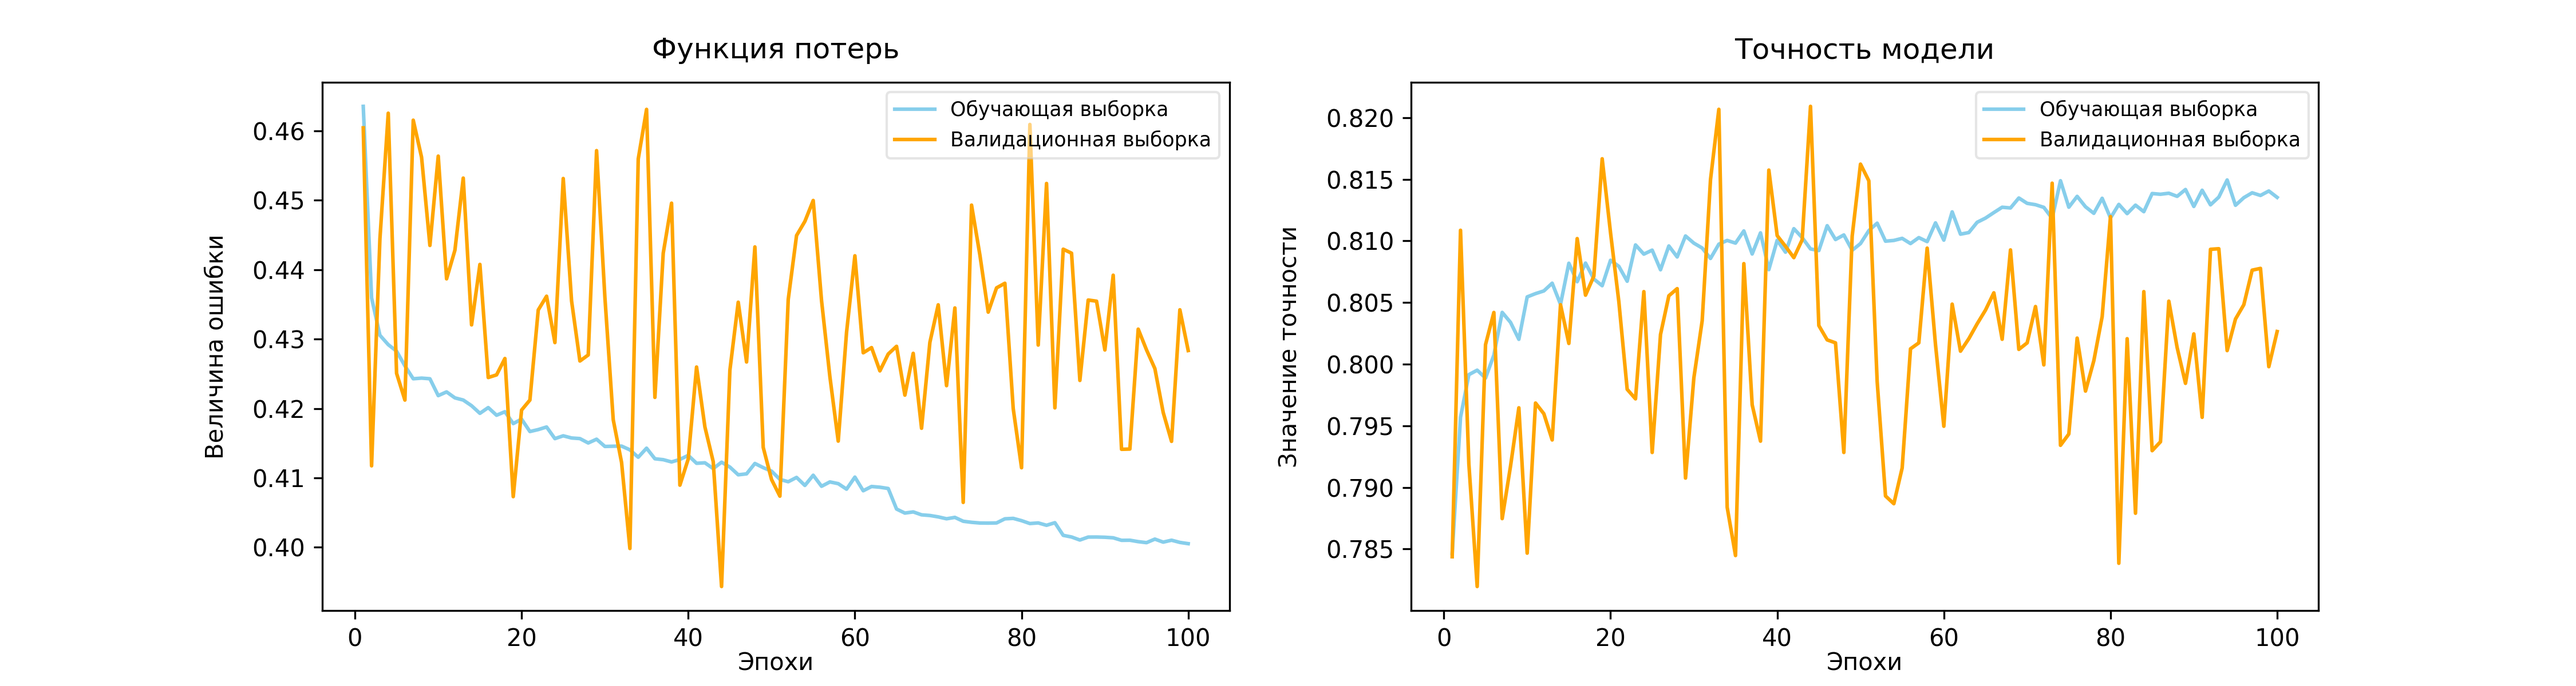
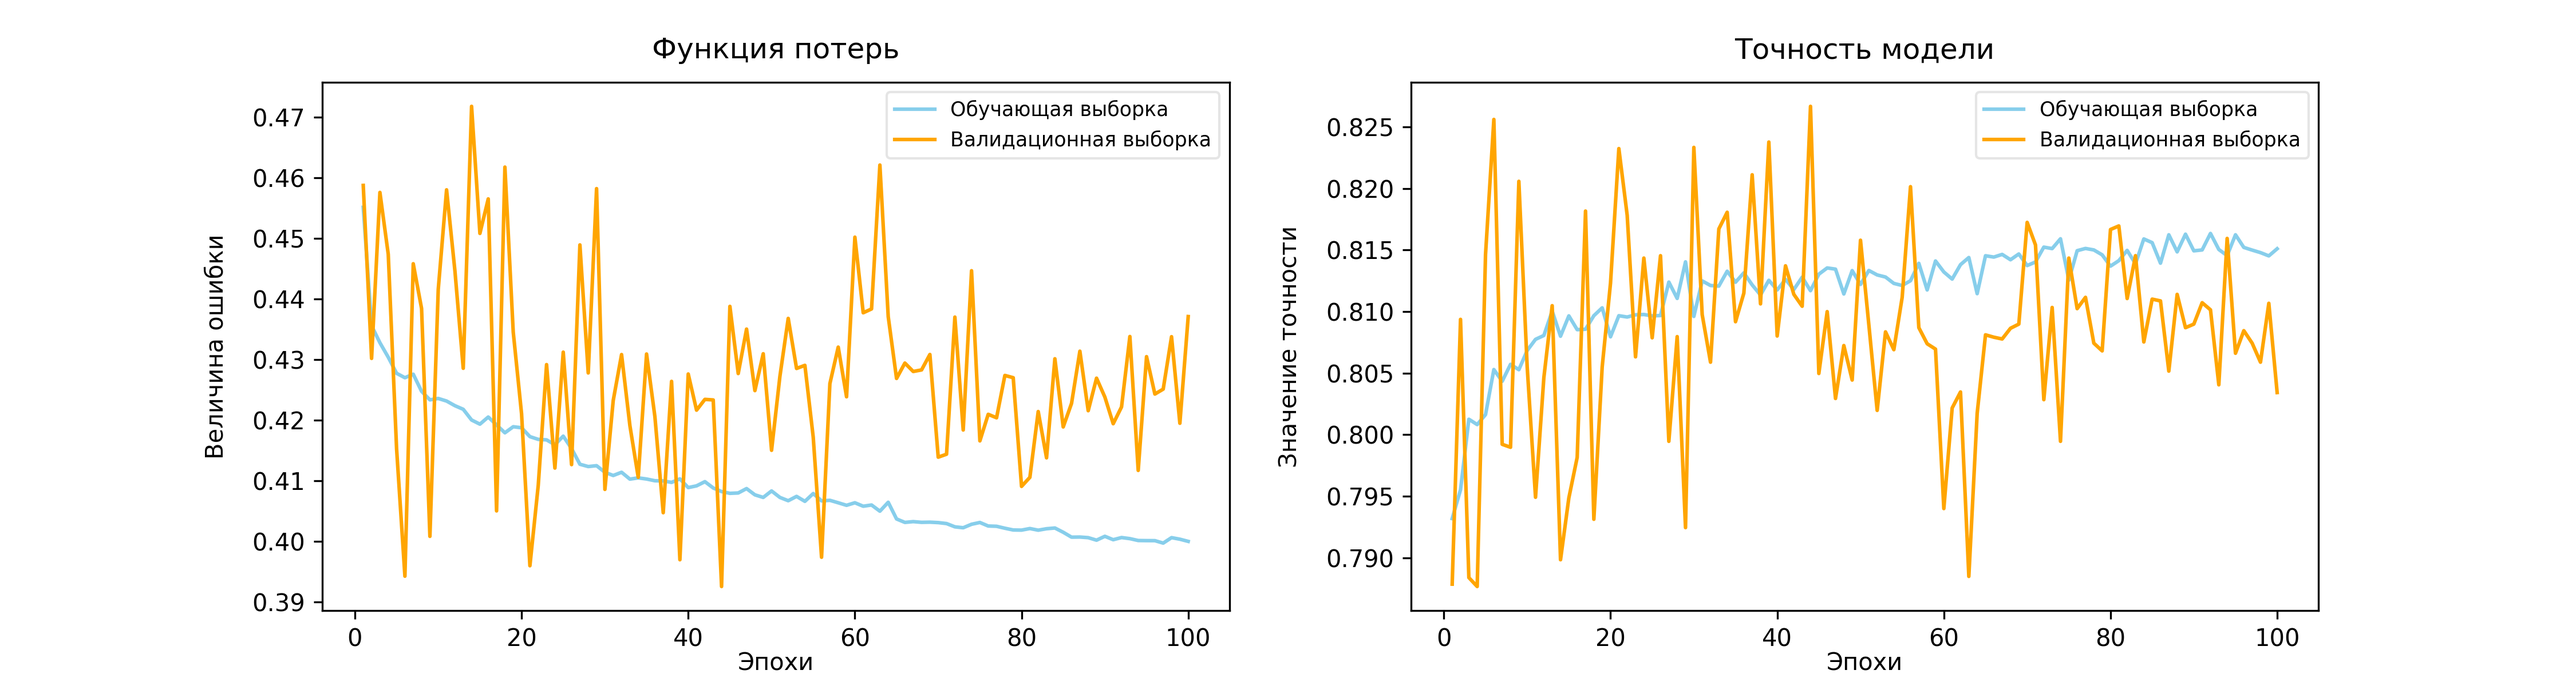
custom losses

diff --git a/utils/losses.py b/utils/losses.py
@@ -3,66 +3,41 @@ import keras.backend as K
 from keras.losses import Loss
 
 
-# class CustomBinaryCrossentropy(Loss):
-#     def __init__(self, class_weight):
-#         super().__init__()
-#         self.class_weight = class_weight
-
-#     def call(self, y_true, y_pred, sample_weight=None):
-#         y_pred = tf.clip_by_value(y_pred, K.epsilon(), 1.0 - K.epsilon())
-#         # weights = y_true * self.class_weight[1] + (1.0 - y_true) * self.class_weight[0]
-#         loss = -y_true * tf.math.log(y_pred) - (1 - y_true) * tf.math.log(1 - y_pred)
-#         # return tf.reduce_mean(weights * loss) if sample_weight else tf.reduce_mean(loss)
-#         return tf.reduce_mean(loss)
-
-
 class CustomBinaryCrossentropy(Loss):
-    def __init__(self):
+    def __init__(self, class_weight):
         super().__init__()
-
-    # def call(self, y_true, y_pred):
-    #     # Обрезаем предсказания, чтобы избежать log(0)
-    #     y_pred = tf.clip_by_value(y_pred, K.epsilon(), 1.0 - K.epsilon())
-    #     # Вычисляем стандартную BCE
-    #     loss = -y_true * tf.math.log(y_pred) - (1 - y_true) * tf.math.log(1 - y_pred)
-    #     return tf.reduce_mean(loss)
+        self.class_weight = class_weight
 
     def __call__(self, y_true, y_pred, sample_weight=None):
-        # Обрезаем предсказания, чтобы избежать log(0)
         y_pred = tf.clip_by_value(y_pred, K.epsilon(), 1.0 - K.epsilon())
-        # Вычисляем стандартную BCE
         loss = -y_true * tf.math.log(y_pred) - (1 - y_true) * tf.math.log(1 - y_pred)
+        weights = y_true * self.class_weight[1] + (1.0 - y_true) * self.class_weight[0]
         if sample_weight is not None:
-            loss = loss * sample_weight
+            loss = loss * weights
         return tf.reduce_mean(loss)
 
 
-def binary_crossentropy(y_true, y_pred):
-    y_pred = tf.clip_by_value(y_pred, K.epsilon(), 1.0 - K.epsilon())
-    loss = -y_true * tf.math.log(y_pred) - (1 - y_true) * tf.math.log(1 - y_pred)
-    return tf.reduce_mean(loss)
+class CustomCategoricalCrossentropy(Loss):
+    def __init__(self, class_weight):
+        super().__init__()
+        self.class_weight = tf.constant(
+            [class_weight[i] for i in class_weight.keys()], dtype=tf.float32
+        )
 
-
-def make_weighted_bce(class_weight):
-    def weighted_bce(y_true, y_pred):
+    def __call__(self, y_true, y_pred, sample_weight=None):
         y_pred = tf.clip_by_value(y_pred, K.epsilon(), 1.0 - K.epsilon())
-        weights = y_true * class_weight[1] + (1.0 - y_true) * class_weight[0]
-        loss = -y_true * tf.math.log(y_pred) - (1 - y_true) * tf.math.log(1 - y_pred)
-        return tf.reduce_mean(weights * loss)
-
-    return weighted_bce
-
-
-def categorical_crossentropy(y_true, y_pred):
-    y_pred = tf.clip_by_value(y_pred, K.epsilon(), 1.0 - K.epsilon())
-    loss = y_true * tf.math.log(y_pred)
-    loss = -tf.reduce_sum(loss, axis=-1)
-    return tf.reduce_mean(loss)
+        loss = y_true * tf.math.log(y_pred)
+        loss = -tf.reduce_sum(loss, axis=-1)
+        weights = (
+            y_true[:, -1] * self.class_weight[1]
+            + (1.0 - y_true[:, -1]) * self.class_weight[0]
+        )
+        if sample_weight is not None:
+            loss = loss * weights
+        return tf.reduce_mean(loss)
 
 
 __all__ = [
     "CustomBinaryCrossentropy",
-    "binary_crossentropy",
-    "make_weighted_bce",
-    "categorical_crossentropy",
+    "CustomCategoricalCrossentropy",
 ]

diff --git a/utils/models.py b/utils/models.py
@@ -44,8 +44,8 @@ def create_model(hidden_units, class_weight, pos, neg) -> Model:
     model = Model(inputs=input, outputs=output)
 
     opt = keras.optimizers.Adam(learning_rate=0.003)
-    # l = keras.losses.BinaryCrossentropy()
-    l = CustomBinaryCrossentropy()
+    l = keras.losses.BinaryCrossentropy()
+    # l = CustomBinaryCrossentropy(class_weight)
     m = keras.metrics.BinaryAccuracy()
 
     model.compile(optimizer=opt, loss=l, metrics=[m])
@@ -68,7 +68,7 @@ def create_model(hidden_units, class_weight, pos, neg) -> Model:
     return model
 
 
-def create_softmax_model(hidden_units) -> Model:
+def create_softmax_model(hidden_units, class_weight) -> Model:
     input = Input(shape=(12,))
     x = Dense(units=hidden_units, activation="relu")(input)
     output = Dense(units=2, activation="softmax")(x)
@@ -76,10 +76,11 @@ def create_softmax_model(hidden_units) -> Model:
     model = Model(inputs=input, outputs=output)
 
     opt = keras.optimizers.Adam(learning_rate=0.003)
-    l = keras.losses.CategoricalCrossentropy()
+    # l = keras.losses.CategoricalCrossentropy()
+    l = CustomCategoricalCrossentropy(class_weight)
     m = keras.metrics.CategoricalAccuracy()
 
-    model.compile(optimizer=opt, loss=categorical_crossentropy, metrics=[m])
+    model.compile(optimizer=opt, loss=l, metrics=[m])
     model.summary()
     return model
 
@@ -197,7 +198,11 @@ def train_model(
     isSave: bool,
     filename: str = "",
 ) -> Dict[str, List[float]]:
-    sample_weight = np.array([class_weight[int(y)] for y in y_train.flatten()])
+    sample_weight = (
+        np.array([class_weight[int(y)] for y in y_train.flatten()])
+        if y_train.shape[-1] == 1
+        else np.array([class_weight[i] for i in np.where(y_train > 0)[-1]])
+    )
     sample_weight = sample_weight.astype(np.float32)
     sample_weight = sample_weight.reshape(-1, 1)
 

diff --git a/train-softmax.py b/train-softmax.py
@@ -6,7 +6,7 @@ from utils.plots import *
 from utils.models import *
 from utils.processing import *
 
-repeats = 3  # кол-во повторений обучения
+repeats = 1  # кол-во повторений обучения
 # Прочитаем данные:
 df = pd.read_csv("./data/ferritin-all.csv", sep=",", dtype={"hgb": float})
 print(df.head())
@@ -24,7 +24,7 @@ for i in range(repeats):
     class_weight, x_train, y_train, x_test, y_test, pos, neg = preparate_data(
         df, n_features, targets, scale=True, encode=True, seed=None
     )
-    model = create_softmax_model(hidden_units)
+    model = create_softmax_model(hidden_units, class_weight)
     history_data = train_model(
         model,
         x_train,
